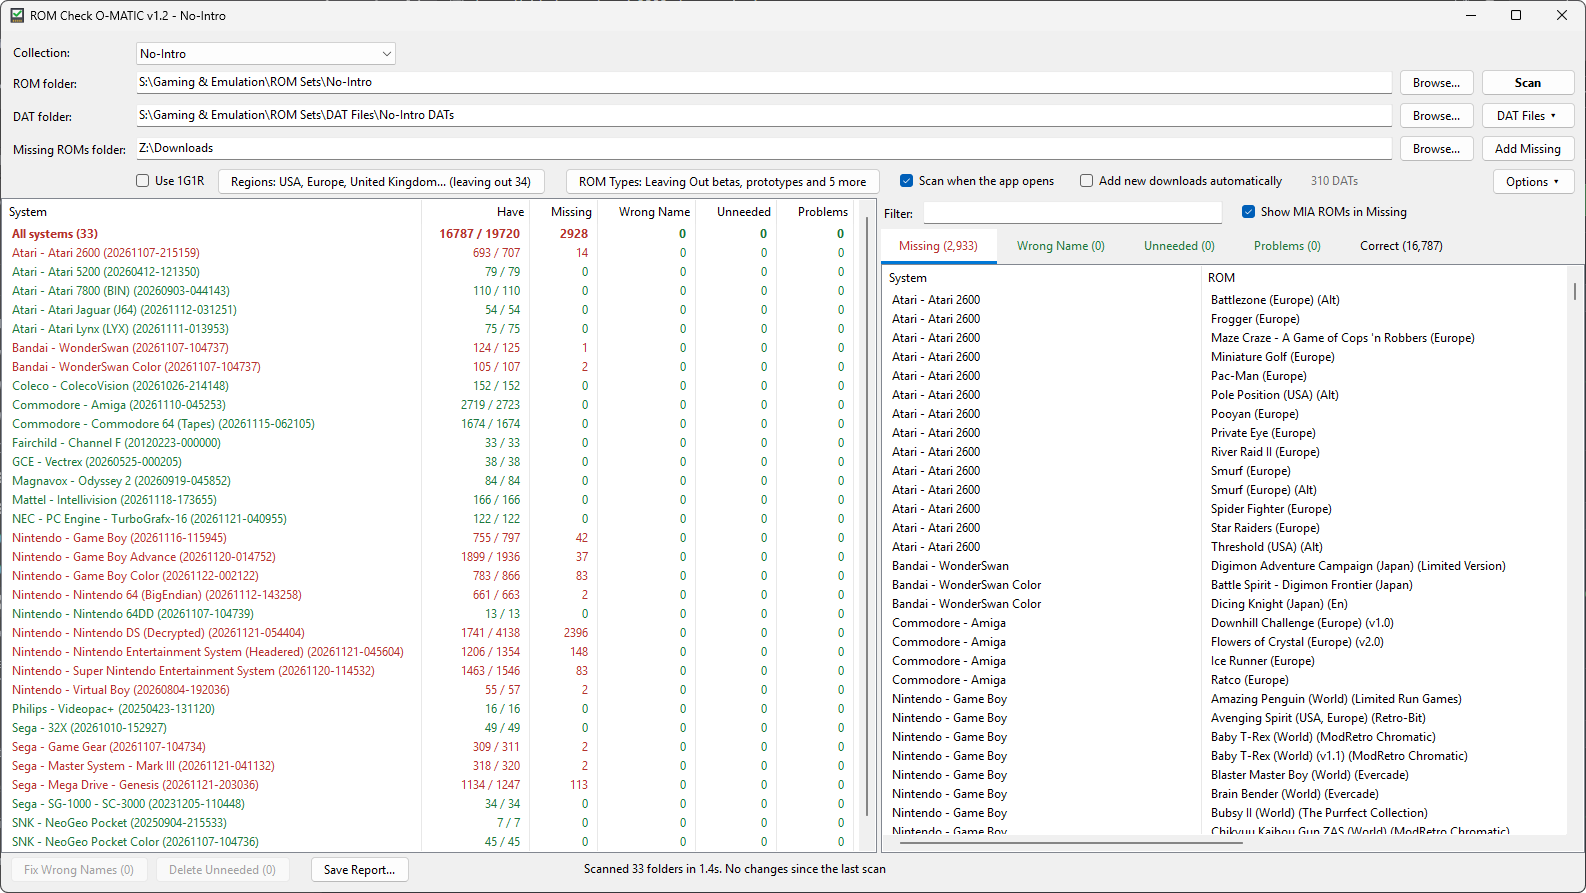
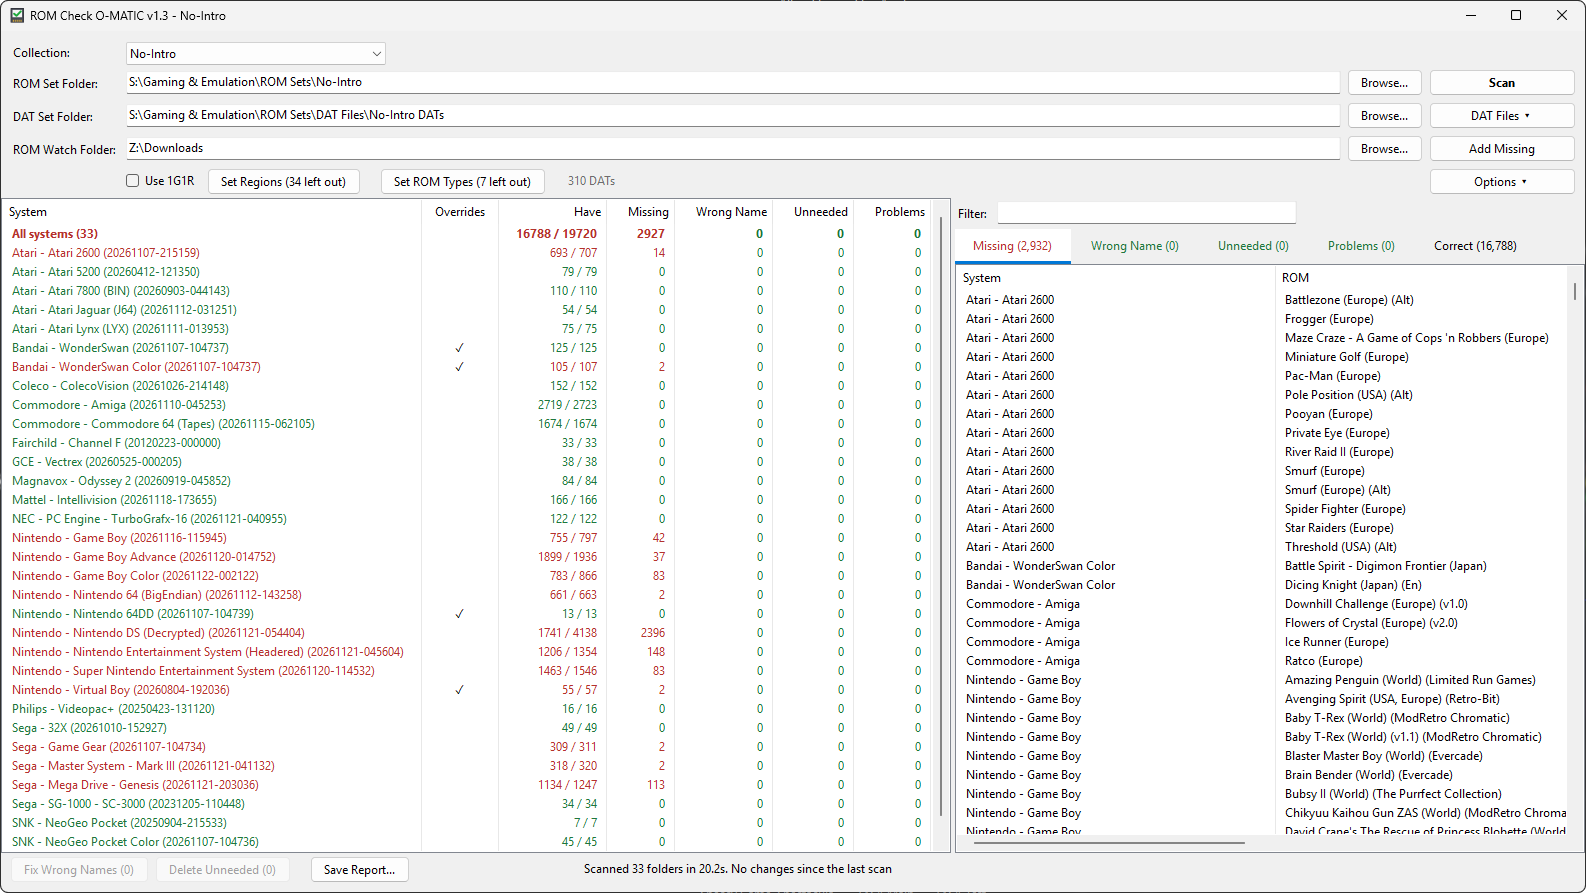
Update the screenshot for v1.3, light theme only
The README now shows one screenshot instead of a light and a dark one.

diff --git a/README.md b/README.md
@@ -4,9 +4,7 @@ A portable Windows app that checks No-Intro (cartridge), Redump (disc), MAME (ar
 
 > **100% AI-generated.** All of the code in this project was written by Claude (an AI by Anthropic), directed and tested by Michael Winn.
 
-![ROM Check O-MATIC with the light theme, checking a No-Intro set](docs/screenshot-light.png)
-
-![ROM Check O-MATIC with the dark theme](docs/screenshot-dark.png)
+![ROM Check O-MATIC checking a No-Intro set](docs/screenshot-light.png)
 
 ## Why another ROM manager?
 
